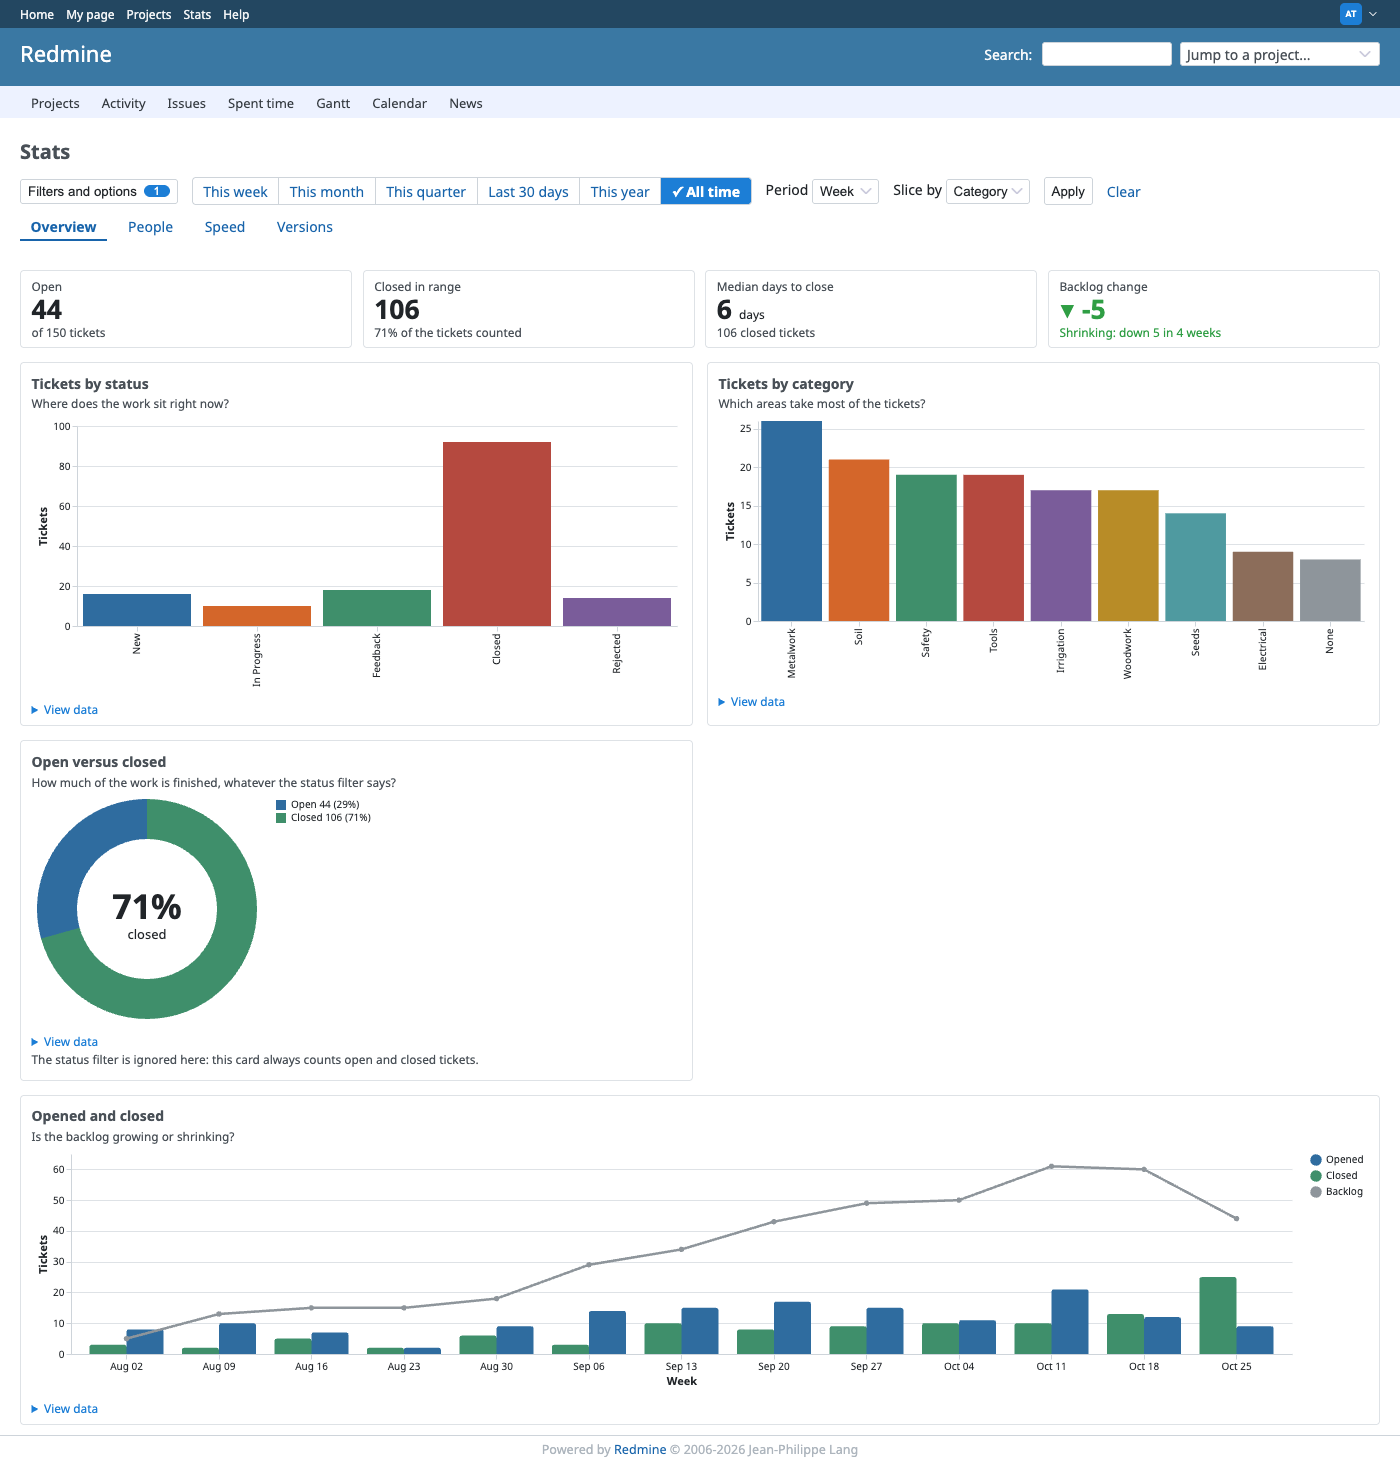
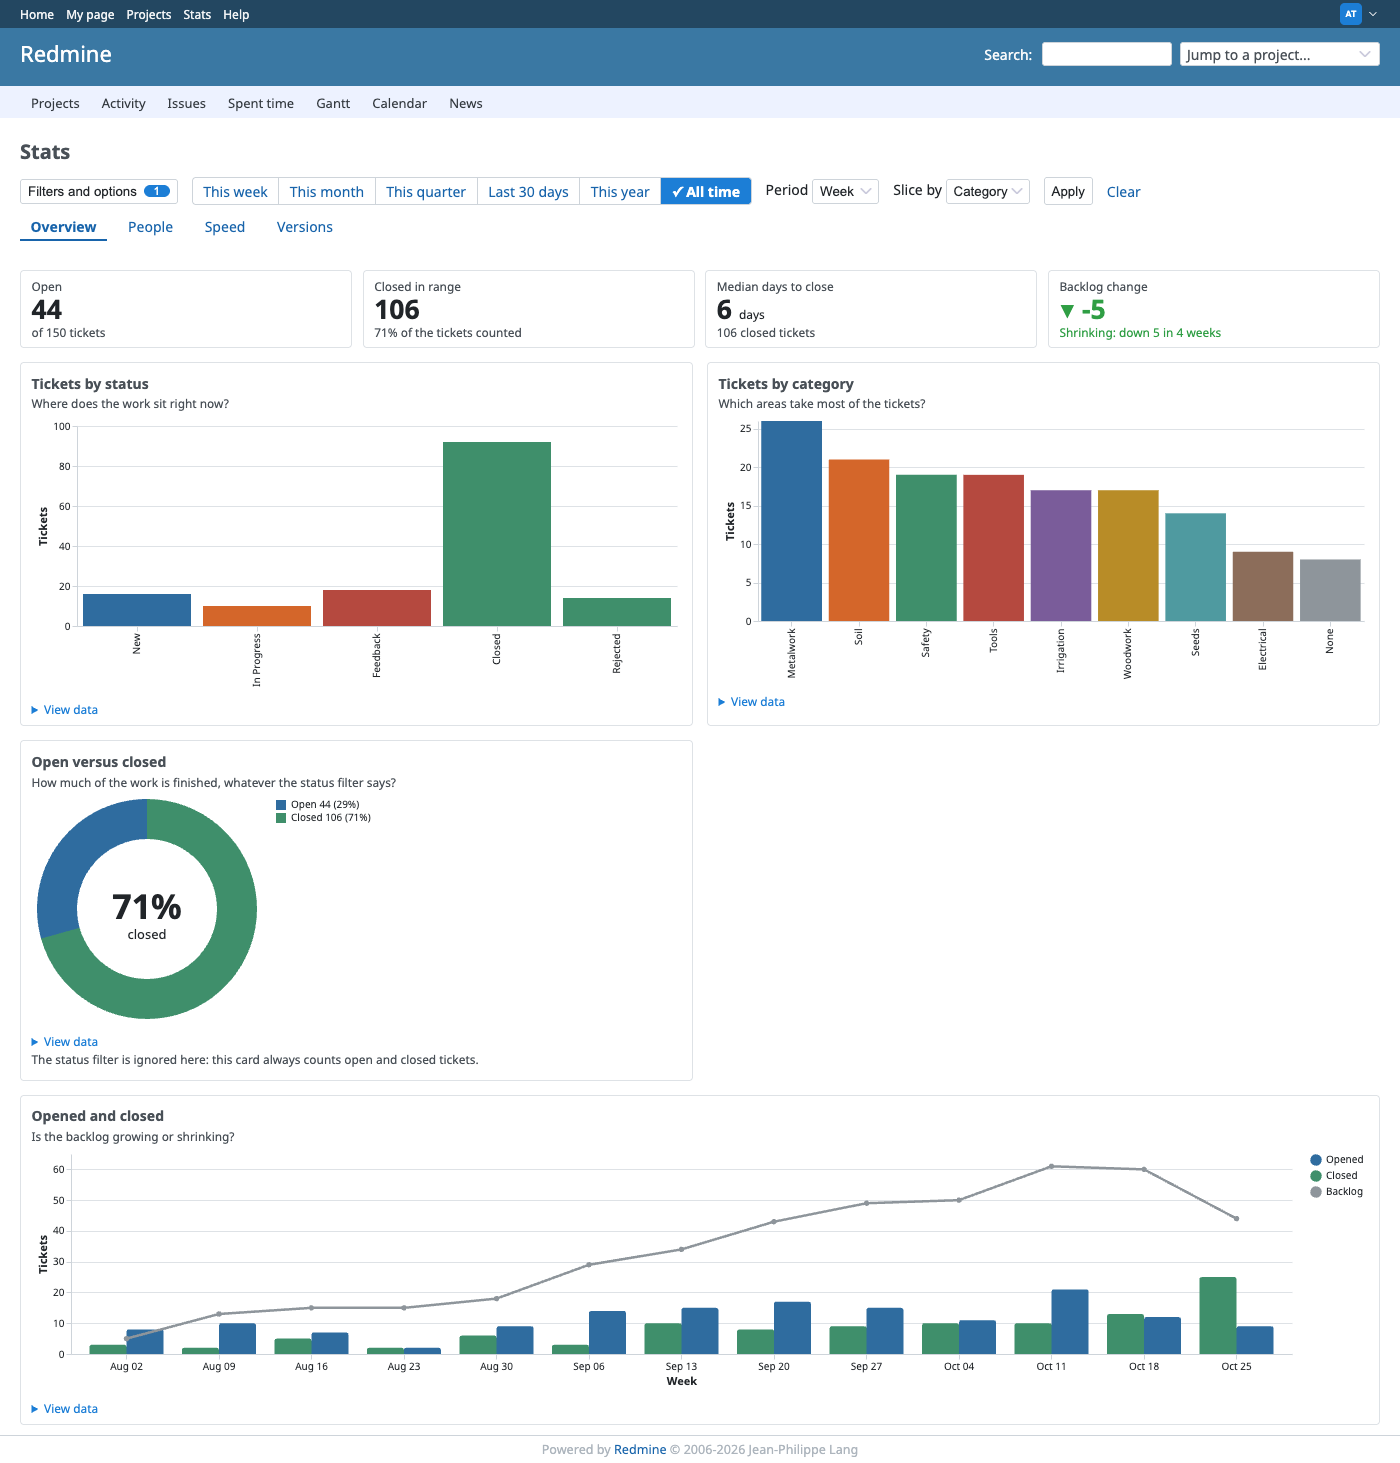
feat(charts): colour the status bars by meaning
Closed statuses use the closed role colour, open statuses take the palette in order without the colour the closed role uses, and a None bucket is grey. The status rows now carry is_closed.

refs #1657

Changed region(s): [[0.215, 0.2768, 0.4914, 0.4306]]

diff --git a/assets/javascripts/rubylode_stats_palette.js b/assets/javascripts/rubylode_stats_palette.js
@@ -22,7 +22,7 @@
  * RubylodeStats::Palette) in the data-palette attribute. When the setting follows the theme and the page defines
  * --theme-chart-1, the theme's colours win: --theme-chart-1 to --theme-chart-10 for categories and --theme-chart-open,
  * --theme-chart-closed and --theme-chart-neutral for the roles. The chart specifications name colours as tokens
- * ("role:open", "role:closed", "role:neutral", "category:3"), which applyTokens turns into the chosen colours. The functions
+ * ("role:open", "role:closed", "role:neutral", "category:3", "open_status:2"), which applyTokens turns into the chosen colours. The functions
  * take what they read as arguments, so they run under Node as well (test/javascript).
  */
 (function (root) {
@@ -56,6 +56,12 @@
       if (role) { return palette[role[1]]; }
       var category = /^category:(\d+)$/.exec(value);
       if (category) { return palette.categorical[(Number(category[1]) - 1) % palette.categorical.length]; }
+      var openStatus = /^open_status:(\d+)$/.exec(value);
+      if (openStatus) {
+        var others = palette.categorical.filter(function (colour) { return colour !== palette.closed; });
+        if (others.length === 0) { others = palette.categorical; }
+        return others[(Number(openStatus[1]) - 1) % others.length];
+      }
       return value;
     });
   }

diff --git a/app/models/rubylode_stats/charts/tickets_by_status.rb b/app/models/rubylode_stats/charts/tickets_by_status.rb
@@ -30,7 +30,7 @@ module RubylodeStats
           "encoding" => {
             "x" => { "field" => "status", "type" => "nominal", "sort" => { "field" => "position" }, "title" => nil },
             "y" => count_axis("tickets", largest_count(rows_with_links, "tickets")),
-            "color" => { "field" => "status", "type" => "nominal", "sort" => { "field" => "position" }, "legend" => nil },
+            "color" => { "field" => "status", "type" => "nominal", "sort" => { "field" => "position" }, "legend" => nil, "scale" => status_color_scale(rows_with_links) },
             "opacity" => emphasis_opacity(with_legend: false),
             "href" => { "field" => "url", "type" => "nominal" },
             "tooltip" => [
@@ -53,6 +53,21 @@ module RubylodeStats
       end
 
       private
+
+      # Colour by meaning: a closed status takes the closed role colour, an empty or None bucket the neutral grey, and the
+      # open statuses the palette in order (the script skips the colour the closed role uses, so no open bar looks closed).
+      def status_color_scale(rows)
+        neutral_labels = [I18n.t(:label_stats_none), "Other"]
+        position = 0
+        range = rows.map do |row|
+          next "role:closed" if row["is_closed"]
+          next "role:neutral" if neutral_labels.include?(row["status"].to_s) || row["status"].to_s.strip.empty?
+
+          position += 1
+          "open_status:#{position}"
+        end
+        { "domain" => rows.map { |row| row["status"] }, "range" => range }
+      end
 
       def rows_with_links
         @rows_with_links ||= begin

diff --git a/test/unit/tickets_by_status_rows_test.rb b/test/unit/tickets_by_status_rows_test.rb
@@ -38,9 +38,9 @@ class TicketsByStatusRowsTest < ActiveSupport::TestCase
     rows = RubylodeStats::TicketsByStatusRows.new(query).rows
 
     assert_equal [
-      { "status_id" => 1, "status" => "New", "tickets" => 3 },
-      { "status_id" => 2, "status" => "Assigned", "tickets" => 1 },
-      { "status_id" => 5, "status" => "Closed", "tickets" => 3 }
+      { "status_id" => 1, "status" => "New", "is_closed" => false, "tickets" => 3 },
+      { "status_id" => 2, "status" => "Assigned", "is_closed" => false, "tickets" => 1 },
+      { "status_id" => 5, "status" => "Closed", "is_closed" => true, "tickets" => 3 }
     ], rows
   end
 
@@ -51,7 +51,7 @@ class TicketsByStatusRowsTest < ActiveSupport::TestCase
 
     rows = RubylodeStats::TicketsByStatusRows.new(query).rows
 
-    assert_equal [{ "status_id" => 5, "status" => "Closed", "tickets" => 3 }], rows
+    assert_equal [{ "status_id" => 5, "status" => "Closed", "is_closed" => true, "tickets" => 3 }], rows
   end
 
   def test_includes_subproject_tickets_when_the_setting_is_on

diff --git a/app/models/rubylode_stats/tickets_by_status_rows.rb b/app/models/rubylode_stats/tickets_by_status_rows.rb
@@ -16,7 +16,7 @@
 # Foundation, Inc., 51 Franklin Street, Fifth Floor, Boston, MA  02110-1301, USA.
 
 module RubylodeStats
-  # One row per status: how many of the query's tickets have it. The query decides which tickets (filters, visibility,
+  # One row per status: how many of the query's tickets have it, and whether the status is a closed one. The query decides which tickets (filters, visibility,
   # subprojects); this class works with or without a project.
   class TicketsByStatusRows
     def initialize(query)
@@ -26,7 +26,7 @@ module RubylodeStats
     def rows
       ticket_counts = @query.base_scope.group("issues.status_id").count
       IssueStatus.where(id: ticket_counts.keys).sorted.map do |status|
-        { "status_id" => status.id, "status" => status.name, "tickets" => ticket_counts.fetch(status.id) }
+        { "status_id" => status.id, "status" => status.name, "is_closed" => status.is_closed?, "tickets" => ticket_counts.fetch(status.id) }
       end
     end
   end

diff --git a/test/integration/palette_settings_and_page_test.rb b/test/integration/palette_settings_and_page_test.rb
@@ -166,6 +166,18 @@ class PaletteSettingsAndPageTest < Redmine::IntegrationTest
     assert_equal "editorial", Setting.plugin_redmine_rubylode_stats["palette_preset"]
   end
 
+  def test_the_status_bars_colour_closed_statuses_by_role_and_open_ones_from_the_palette
+    log_user("jsmith", "jsmith")
+    get "/projects/#{@project.identifier}/stats?set_filter=1&f[]=status_id&op[status_id]=*"
+
+    scale = specification_of("tickets_by_status").dig("encoding", "color", "scale")
+    closed_position = scale["domain"].index("Closed")
+
+    assert closed_position, "the fixtures have closed tickets"
+    assert_equal "role:closed", scale["range"][closed_position]
+    (scale["range"] - ["role:closed"]).each_with_index { |token, index| assert_equal "open_status:#{index + 1}", token }
+  end
+
   def test_the_category_bars_and_the_pie_draw_the_none_bucket_in_the_neutral_role
     log_user("jsmith", "jsmith")
     get "/projects/#{@project.identifier}/stats"

diff --git a/test/unit/palette_test.rb b/test/unit/palette_test.rb
@@ -178,7 +178,19 @@ class PaletteTest < ActiveSupport::TestCase
     assert_equal %w[category:1 category:2 role:neutral role:neutral role:neutral], scale["range"]
   end
 
+  def test_a_status_scale_colours_closed_statuses_by_role_and_open_ones_in_order
+    chart = RubylodeStats::Charts::TicketsByStatus.allocate
+    scale = chart.send(:status_color_scale, [
+      { "status" => "New", "is_closed" => false }, { "status" => "Done", "is_closed" => true },
+      { "status" => "Doing", "is_closed" => false }, { "status" => "None", "is_closed" => false }
+    ])
+
+    assert_equal %w[New Done Doing None], scale["domain"]
+    assert_equal %w[open_status:1 role:closed open_status:2 role:neutral], scale["range"]
+  end
+
   def test_the_palette_serialises_for_the_page
+
     data = JSON.parse(build_palette({}).to_json)
 
     assert_equal true, data["follow_theme"]

diff --git a/README.md b/README.md
@@ -147,8 +147,8 @@ preset under Administration, Plugins, Configure.
 | Data visualisation | Ten saturated categorical colours in the style of the wpdatatables palettes |
 | Custom | Up to ten hex colours of your own, and optional colours for open, closed and neutral |
 
-A chart that groups by a category (tickets by status, tickets by category and its donut, closed per person) takes the
-colours in order and starts again after the last one. A bucket named None or Other, or with an empty name, is drawn in the neutral grey instead, so it reads as context and uses no hue. The bars of tickets by status and by category need no legend, as
+Tickets by status colours by meaning: a closed status uses the closed colour, an open status takes the palette in order and skips the colour the closed role uses, and a None bucket is grey. Charts that group by a category (tickets by category, closed per person) take the
+colours in order and start again after the last one. A bucket named None or Other, or with an empty name, is drawn in the neutral grey instead, so it reads as context and uses no hue. The bars of tickets by status and by category need no legend, as
 the axis names them. Charts with a single series (time to close, the median line) are drawn in the first colour. Open and closed use the same two colours in every chart: the open and closed donut, opened and closed per period, and
 done against remaining per version. The neutral colour draws remaining tickets and the backlog line. Every colour of the
 presets keeps a contrast of at least 3:1 against a white page in the light set and against a #1E1E1E page in the dark set.

diff --git a/CHANGELOG.md b/CHANGELOG.md
@@ -13,6 +13,7 @@ Calmer chart colours.
 ### Changed
 
 - Editorial is the palette used when the preset is Follow the theme and the theme defines no chart colours. Material stays selectable.
+- Tickets by status colours by meaning: closed statuses use the closed colour, open statuses take the palette in order without the closed colour, and a None bucket is grey.
 - A None, Other or unnamed bucket in the category and closed per person charts is drawn in the neutral grey instead of a palette colour.
 
 ## [1.2.0] - 2026-11-02
